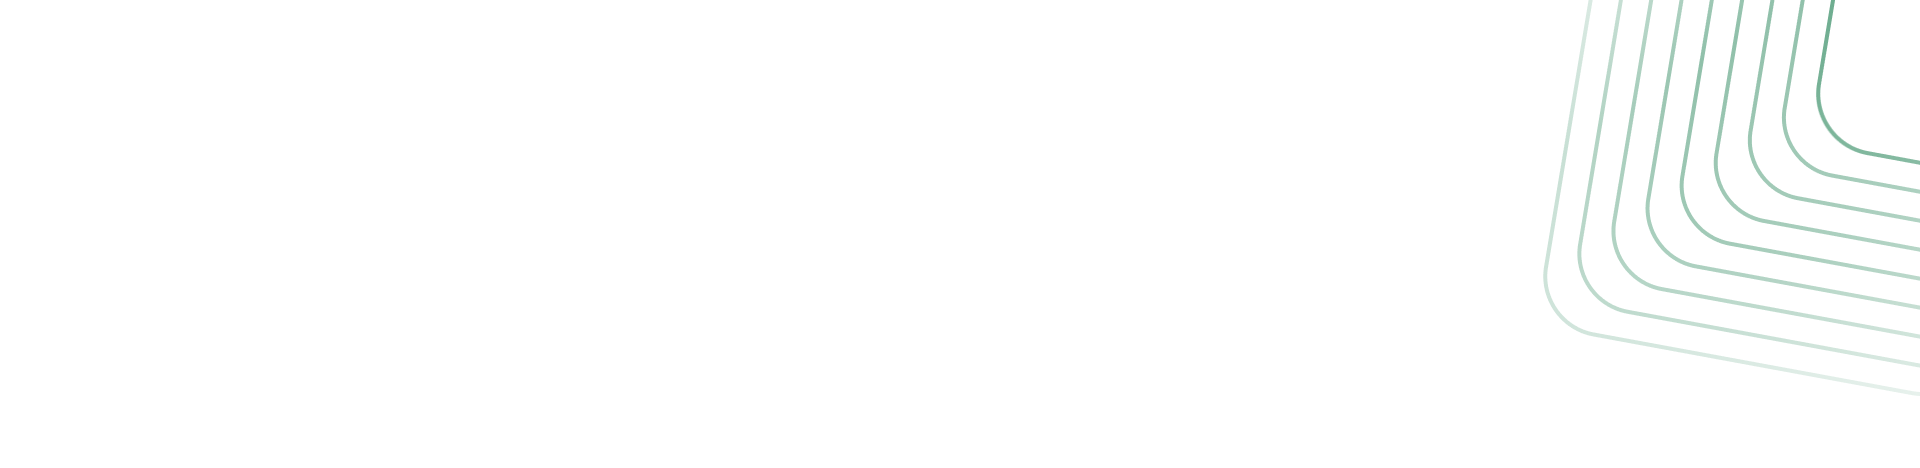
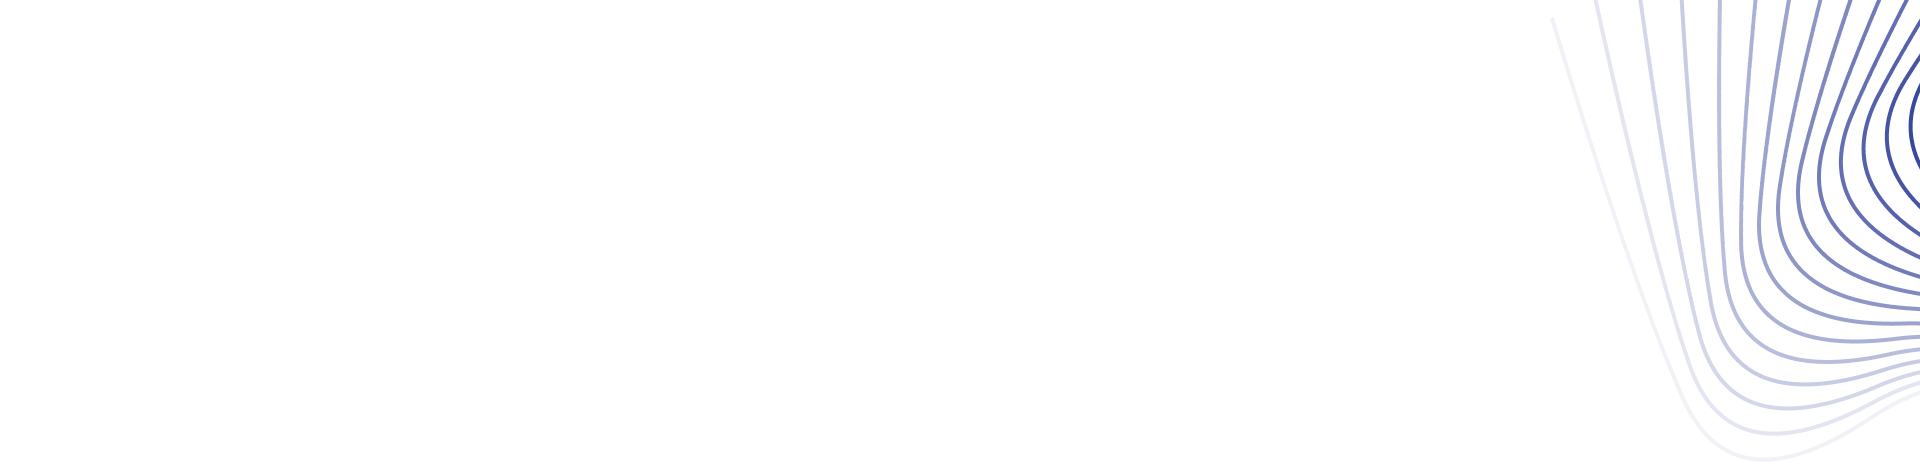
updated21jul

Changed region(s): [[0.8125, 0.0, 1.0, 0.9274], [0.8125, 0.688, 0.8438, 0.7179], [0.8125, 0.6282, 0.8438, 0.6581]]

diff --git a/src/components/hero/HeroHeader.js b/src/components/hero/HeroHeader.js
@@ -30,7 +30,7 @@ const HeroHeader = ({ backImage, backColor, title }) => {
             transform-origin: bottom left;
            transition: 0.5s transform ease-out;
           z-index: -1;
-           background-color: #324da0;
+           background-color: #324DA0;
          }
            .bg-panel-glass:hover::after {
            transform: translate(0, 0);

diff --git a/src/components/hero/hero.js b/src/components/hero/hero.js
@@ -7,7 +7,7 @@ import headerBg from "../../images/heroHeaderBg.png";
 const Hero = () => {
   return (
     <>
-      <HeroHeader backImage={headerBg} backColor="#c9e0d7" title="Blog" />
+      <HeroHeader backImage={headerBg} backColor="#d7dbea" title="Blog" />
     </>
   );
 };

diff --git a/src/components/HighlightsNews/HighlightsNews.css b/src/components/HighlightsNews/HighlightsNews.css
@@ -278,7 +278,7 @@ span {
 .tp-common-btn:hover,
 .tp-pf-btn-group button.active {
   color: #fff;
-  background-color: #ff3c58 !important;
+  background-color: #F47F21 !important;
   overflow: hidden;
 }
 
